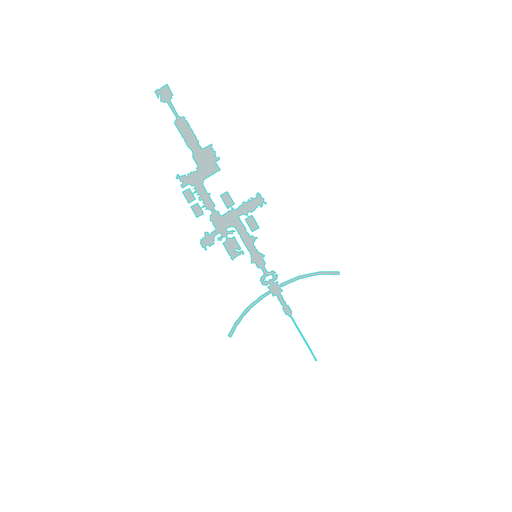
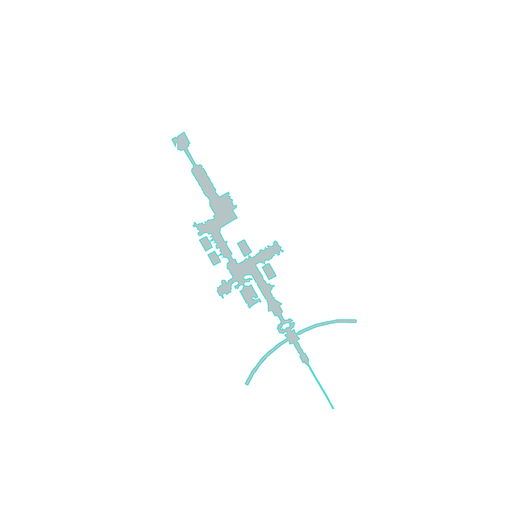
Calibrate maps from stock page records

diff --git a/docs/VANILLA_FALLBACKS.md b/docs/VANILLA_FALLBACKS.md
@@ -93,19 +93,19 @@ The scale byte at page-record offset `+0x05` gives
 routine performs this multiplication directly. The older
 `32 / (scale_byte * 10)` expression only produced the same result for scale
 byte `4` and caused live entities to spread incorrectly on every other scale.
-The plugin runtime's
-computed player position in map space is stored as doubles at `runtime + 0x18`
-and `runtime + 0x20`. The fallback origin is recovered each frame with:
+The matching 14-byte FFXiMain map-table record stores signed `OffsetX` and
+`OffsetY` values at `+0x0A` and `+0x0C`. Minimap.dll's own converter uses:
 
 ```text
-origin_x = runtime_map_x - player_world_x * image_pixels_per_yalm
-origin_y = runtime_map_y + player_world_y * image_pixels_per_yalm
+image_x = world_x * image_pixels_per_yalm - OffsetX
+image_y = -world_y * image_pixels_per_yalm - OffsetY
 ```
 
-This is the stock renderer's final post-reconstruction coordinate space and
-therefore accounts for page-specific placement without a per-map table. It has
-been validated against Ru'Lude Gardens' authored calibration and live Castle
-Oztroja pages.
+The exact source origin is therefore `(-OffsetX,-OffsetY)`. AshitaMinimap looks
+up the active zone and page in this table before using Minimap.dll's live player
+map-space doubles as a fallback. This is stable while the player moves and is
+available for every imported stock page, including maps that have no authored
+layers.
 
 The stock renderer also rejects entities assigned to a different active map
 page. AshitaMinimap applies a zone-independent elevation tolerance before
@@ -113,10 +113,15 @@ drawing live entities so monsters loaded from floors above or below do not
 pollute the current page. This same filter is used for every authored and
 fallback map; it is not a Castle-specific correction.
 
-The signed page-record values at `+0x0A` and `+0x0C` are diagnostic `OffsetX`
-and `OffsetY` metadata, not final source-image origin pixels. Treating their
-negations as `origin_x` and `origin_y` displaced Castle Oztroja's markers far
-from its floor geometry. Do not use them directly.
+The former warning against using the signed offsets was based on the obsolete
+reciprocal scale formula. The offsets were correct; the scale paired with them
+was not.
+
+An authored map that shares the imported stock page's coordinate system can set
+`stock_calibration = true`. Its custom layers will then use the exact live
+record origin and scale rather than masking those values with provisional
+authored defaults. Regenerate every geometry-derived structure layer using the
+same record origin before enabling this flag.
 
 ## Correcting a provisional fallback origin
 

diff --git a/docs/MAP_CALIBRATION.md b/docs/MAP_CALIBRATION.md
@@ -108,23 +108,31 @@ shift every displayed quadrant by a full row or column.
    per map; do not use a repository-wide default as calibration. The earlier
    `32 / (map_scale_byte * 10)` formula only agrees when the scale byte is `4`
    and mis-scales every other page.
-6. Determine the image pixel represented by world `(0, 0)`. When
-   `Minimap.dll` is available, its runtime doubles at `runtime + 0x18` and
-   `runtime + 0x20` are the final computed map-space position of the player.
-   Combine them with the player's live world position and the scale from step 5:
+6. Determine the image pixel represented by world `(0, 0)`. Read the signed
+   `OffsetX` and `OffsetY` fields at `+0x0A` and `+0x0C` of the matching
+   14-byte FFXiMain map-table record:
+
+   ```text
+   origin_x = -OffsetX
+   origin_y = -OffsetY
+   ```
+
+   Minimap.dll's coordinate converter calculates
+   `image_x = world_x * scale - OffsetX` and
+   `image_y = -world_y * scale - OffsetY`, so these negations are the exact
+   source-image origin. The earlier conclusion that the offsets were not final
+   pixels came from combining them with an incorrect reciprocal scale. Upper
+   Jeuno independently confirms record offsets `(-272,-304)` and source origin
+   `(272,304)`.
+
+   If the map record cannot be read, Minimap.dll's runtime doubles at
+   `runtime + 0x18` and `runtime + 0x20` can provide a live fallback:
 
    ```text
    origin_x = runtime_map_x - world_x * image_pixels_per_yalm
    origin_y = runtime_map_y + world_y * image_pixels_per_yalm
    ```
 
-   This produces the origin in the same post-reconstruction 512-by-512 source
-   coordinates used by the imported image. It was checked against Ru'Lude
-   Gardens' known authored origin and Castle Oztroja's live page-specific
-   placement. The signed page-record fields at `+0x0A` and `+0x0C` are named
-   `OffsetX` and `OffsetY` in the plugin's own diagnostics, but the renderer
-   does not use them directly as final source pixels. Do not negate or store
-   them as the origin.
    Separately record the printed H-8 cell center as `grid_origin_x`,
    `grid_origin_y` when it differs from world `(0, 0)`.
 7. Derive `image_pixels_per_yalm` from source metadata or at least two verified,

diff --git a/assets/maps/244.md b/assets/maps/244.md
@@ -5,7 +5,8 @@
 - Source page: 512 × 512, cyclic horizontal offset `+146 px`
 - Collision/navigation: `Upper_Jeuno.obj` and `Upper_Jeuno.nav`
 - Walkable seeds: `(0, 0)`
-- Calibration: origin and H-8 grid center `(255, 256)`, `0.80 px/yalm`,
+- Calibration: navigation origin `(272, 304)` from signed FFXiMain page-record
+  offsets `(-272, -304)`; H-8 grid center `(255, 256)`; `0.80 px/yalm`,
   `40 yalms/cell`
 - View bounds: complete `(0,0)-(512,512)` page
 
@@ -16,6 +17,10 @@ roofs, the residential-area collision circle, and off-map component islands.
 python tools/generate_vanilla_layer.py <DAT> assets/maps/244_vanilla.png \
   --x-offset 146 --box 0,0,512,512
 python tools/generate_walkable_map.py <OBJ> <NAV> \
-  assets/maps/244_structure.png --origin-x 255 --origin-y 256 \
+  assets/maps/244_structure.png --origin-x 272 --origin-y 304 \
   --pixels-per-yalm 0.8 --seed 0,0
 ```
+
+The structure must be regenerated whenever the navigation origin changes.
+Moving only the runtime marker transform leaves the cyan walkable geometry
+misregistered against both the vanilla page and live entities.

diff --git a/docs/MAP_AUTHORING_PITFALLS.md b/docs/MAP_AUTHORING_PITFALLS.md
@@ -88,6 +88,20 @@ structure.
 If an offset causes a rectangle to cross the texture boundary, split that
 rectangle into two non-wrapping rectangles instead of silently clipping it.
 
+For stock-coordinate authored layers, obtain the navigation origin from the
+matching signed FFXiMain map-record offsets:
+
+```text
+origin_x = -OffsetX
+origin_y = -OffsetY
+```
+
+Set `stock_calibration = true` only after generating the structure with that
+same origin. Otherwise the runtime markers and vanilla page will become exact
+while the structure remains displaced. Upper Jeuno exposed this failure: its
+provisional `(255,256)` origin had to become the record-derived `(272,304)`,
+and the walkable layer had to be regenerated by the same `(+17,+48)` shift.
+
 ## Navigation origin and printed-grid origin are different concepts
 
 `origin_x` and `origin_y` identify the image pixel for navigation world
